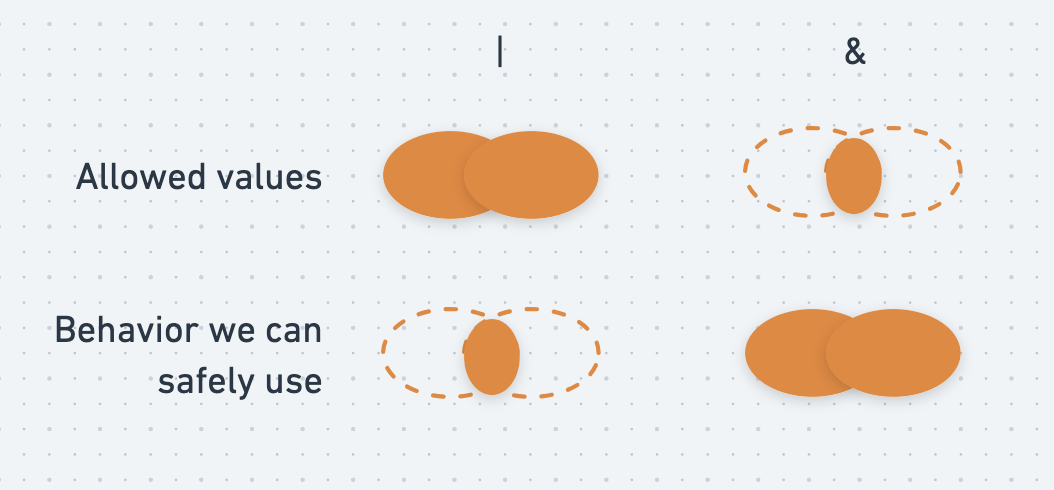
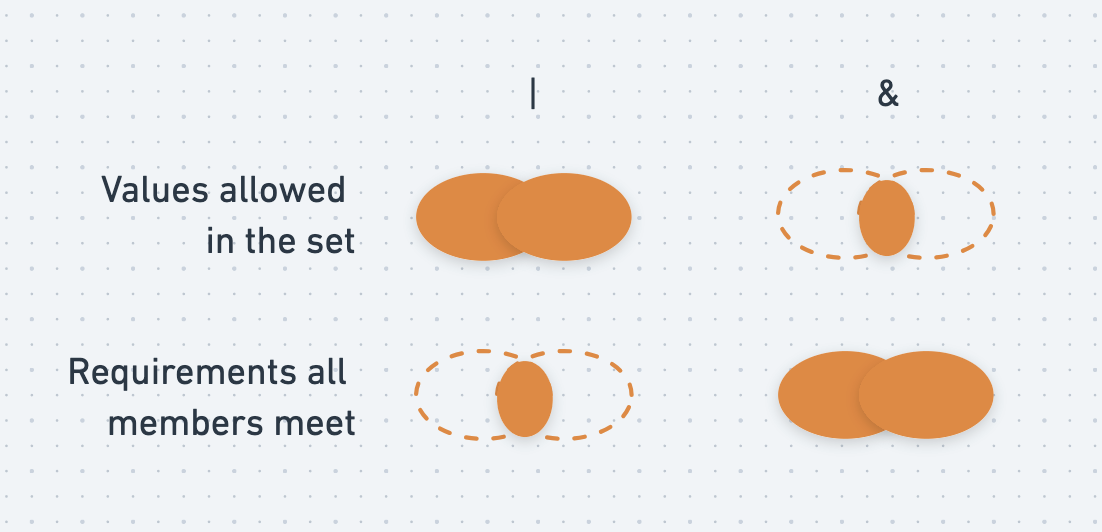
Refinements to union/intersection types

diff --git a/packages/notes-ts-fundamentals-v4/src/06-union-and-intersection-types.ts b/packages/notes-ts-fundamentals-v4/src/06-union-and-intersection-types.ts
@@ -48,15 +48,21 @@ evenNumber = 5; //! 5 is not in the set
 /*
 //? Think critically: "AND" vs "OR", as it pertains to the contents of the set,
 //? vs the assumptions we can make about the value
-
-// let x = 5 as Evens | OneThroughFive;
-
 // function printEven(even: Evens): void { }
 // function printLowNumber(lowNum: OneThroughFive): void { }
 // function printEvenNumberUnder5(num: 2 | 4): void { }
 // function printNumber(num: number): void { }
 
+// let x = 5 as Evens | OneThroughFive;
+
 /*
+//? What does Evens | OneThroughFive accept as values?
+// let evenOrLowNumber: Evens | OneThroughFive;
+// evenOrLowNumber = 6 //✔ An even
+// evenOrLowNumber = 3 //✔ A low number
+// evenOrLowNumber = 4 //✔ A even low number
+
+//? What requirements can `Evens | OneThroughFive` meet?
 // printEven(x) //! Not guaranteed to be even
 // printLowNumber(x) //! Not guaranteed to be in {1, 2, 3, 4, 5}
 // printEvenNumberUnder5(x) //! Not guaranteed to be in {2, 4}
@@ -85,6 +91,14 @@ evenNumber = 5; //! 5 is not in the set
 
 //* Intersection Types
 /*
+// //? What does Evens & OneThroughFive accept as values?
+// let evenAndLowNumber: Evens & OneThroughFive;
+// evenAndLowNumber = 6 //! Not in OneThroughFive
+// evenAndLowNumber = 3 //! Not in Evens
+// evenAndLowNumber = 4 //✔ In both sets
+
+
+//? What requirements can `Evens & OneThroughFive` meet?
 // let y = 4 as Evens & OneThroughFive;
 
 // printEven(y) //✔ Guaranteed to be even

diff --git a/packages/website/content/blog/fundamentals-v4/06-union-and-intersection-types/index.md b/packages/website/content/blog/fundamentals-v4/06-union-and-intersection-types/index.md
@@ -217,24 +217,34 @@ property whose value is a string.
 Let's also look at our previous example involving `{1,2,3,4,5} | {2,4,6,8}` and consider how these `AND` and `OR` type operators describe the set of possible values, and the assumptions we can make about any given value in the set
 
 ```ts twoslash
-// @errors: 2345
+// @errors: 2345 2322
 type OneThroughFive = 1 | 2 | 3 | 4 | 5
 type Evens = 2 | 4 | 6 | 8
-let x = 5 as Evens | OneThroughFive;
-
-
+/// ---cut---
 function printEven(even: Evens): void {}
 function printLowNumber(lowNum: OneThroughFive): void {}
 function printEvenNumberUnder5(num: 2 | 4): void {}
 function printNumber(num: number): void {}
 
+let x = 5 as Evens | OneThroughFive;
+
+// What does Evens | OneThroughFive accept as values?
+let evenOrLowNumber: Evens | OneThroughFive;
+evenOrLowNumber = 6 //✔ An even
+evenOrLowNumber = 3 //✔ A low number
+evenOrLowNumber = 4 //✔ A even low number
+
+
+// What requirements can `Evens | OneThroughFive` meet?
 printEven(x)
 printLowNumber(x)
 printEvenNumberUnder5(x)
 printNumber(x)
 ```
 
-> *Essentially, **`|` means "anything in either set" in terms of the allowed values**, and because of this **"only the behavior that's definitely present on every member of both sets" is available to us**
+There's some interesting asymmetry at play here. A `Evens | OneThroughFive` can accept a wide range of values, but because allows for this flexibility, it doesn't meet the type-checking requirements for most of the `print*` functions.
+
+> *Essentially, **`|` means "anything in either set" in terms of the allowed values**, and because of this **only the behavior that's definitely present on every member of both sets is available to us**
 
 ### Narrowing with type guards
 
@@ -326,7 +336,7 @@ Intersection types in TypeScript can be described using the `&` (ampersand) oper
 Let's look again at our example using sets of numbers
 
 ```ts twoslash
-// @errors: 2345
+// @errors: 2345 2322
 type OneThroughFive = 1 | 2 | 3 | 4 | 5
 type Evens = 2 | 4 | 6 | 8
 
@@ -339,13 +349,20 @@ function printNumber(num: number): void {}
 let y = 4 as Evens & OneThroughFive;
 //  ^?
 
+// What does Evens & OneThroughFive accept as values?
+let evenAndLowNumber: Evens & OneThroughFive;
+evenAndLowNumber = 6 //✔ An even
+evenAndLowNumber = 3 //✔ A low number
+evenAndLowNumber = 4 //✔ A even low number
+
+// What requirements can `Evens & OneThroughFive` meet?
 printEven(y)
 printLowNumber(y)
 printEvenNumberUnder5(y)
 printNumber(y)
 ```
 
-We can see that we end up with only those numbers in _both_ sets, and we can call _all of the functions_ successfully
+Again, we see some degree of asymmetry, but it's almost like it's in the opposite direction compared to union types. The intersection type can accept a very narrow range of values, but because of this, it can meet the type-checking requirements of all four `print*` functions.
 
 > Essentially, **`&` means "anything that is in both sets" in terms of the allowed values**, and because of this, we can use **"any of the behavior definitely present on members of _either_ set".**
 
